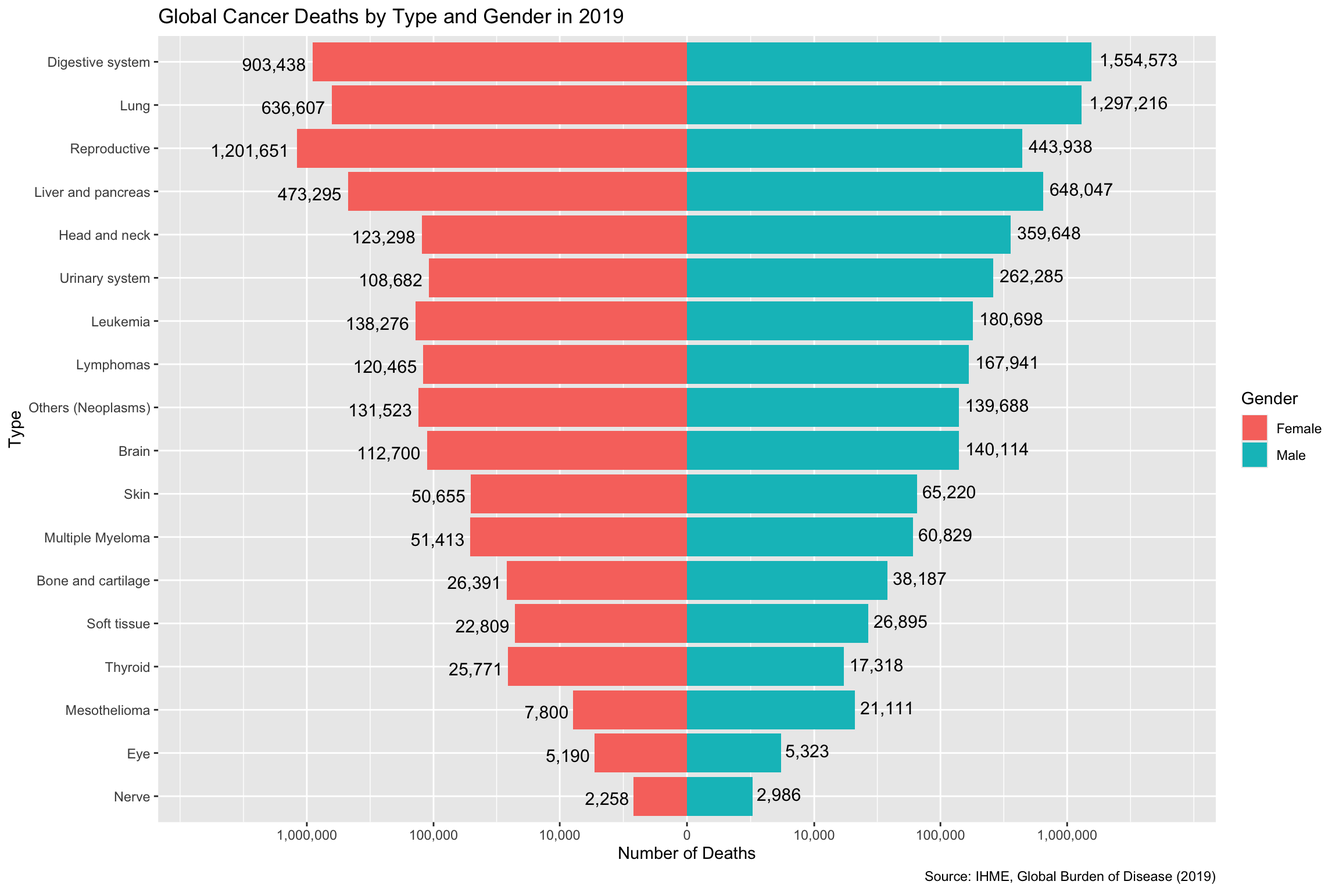
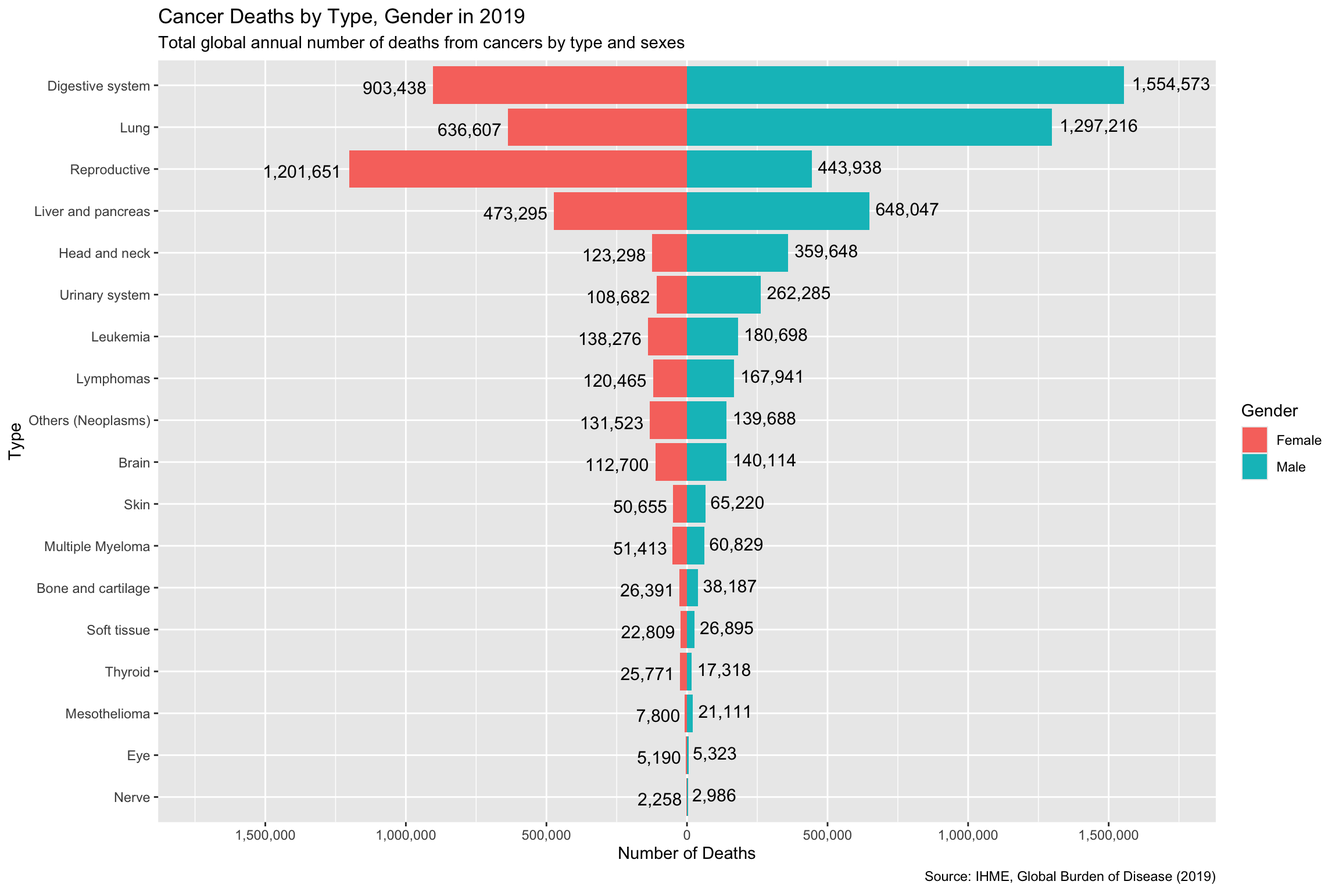
subtitle add

diff --git a/MainVisualization.html b/MainVisualization.html
@@ -147,31 +147,29 @@ dbl (10): measure_id, location_id, sex_id, age_id, cause_id, metric_id, year...
 <span id="cb7-3"><a href="#cb7-3" aria-hidden="true" tabindex="-1"></a>      <span class="fu">filter</span>(<span class="sc">!</span>cause_name <span class="sc">%in%</span> <span class="fu">c</span>(<span class="st">"Total cancers"</span>, <span class="st">"Total Cancers excluding Non-melanoma skin cancer"</span>))</span></code><button title="Copy to Clipboard" class="code-copy-button"><i class="bi"></i></button></pre></div>
 </div>
 <div class="cell" data-layout-align="center">
-<div class="sourceCode cell-code" id="cb8"><pre class="sourceCode r code-with-copy"><code class="sourceCode r"><span id="cb8-1"><a href="#cb8-1" aria-hidden="true" tabindex="-1"></a><span class="co"># </span><span class="al">TODO</span><span class="co">:  Find out about proper classifications of cancer to help support our groupings and change it if necessary</span></span>
-<span id="cb8-2"><a href="#cb8-2" aria-hidden="true" tabindex="-1"></a></span>
-<span id="cb8-3"><a href="#cb8-3" aria-hidden="true" tabindex="-1"></a><span class="co"># Define new cancer groups</span></span>
-<span id="cb8-4"><a href="#cb8-4" aria-hidden="true" tabindex="-1"></a>cancer_data_2019 <span class="ot">&lt;-</span> cancer_data_2019 <span class="sc">%&gt;%</span></span>
-<span id="cb8-5"><a href="#cb8-5" aria-hidden="true" tabindex="-1"></a>  <span class="fu">mutate</span>(<span class="at">cause_group =</span> <span class="fu">case_when</span>(</span>
-<span id="cb8-6"><a href="#cb8-6" aria-hidden="true" tabindex="-1"></a>    cause_name <span class="sc">%in%</span> <span class="fu">c</span>(<span class="st">"Soft tissue and other extraosseous sarcomas"</span>) <span class="sc">~</span> <span class="st">"Soft tissue"</span>,</span>
-<span id="cb8-7"><a href="#cb8-7" aria-hidden="true" tabindex="-1"></a>    cause_name <span class="sc">%in%</span> <span class="fu">c</span>(<span class="st">"Neuroblastoma and other peripheral nervous cell tumors"</span>) <span class="sc">~</span> <span class="st">"Nerve"</span>,</span>
-<span id="cb8-8"><a href="#cb8-8" aria-hidden="true" tabindex="-1"></a>    cause_name <span class="sc">%in%</span> <span class="fu">c</span>(<span class="st">"Breast cancer"</span>, <span class="st">"Cervical cancer"</span>, <span class="st">"Uterine cancer"</span>, <span class="st">"Prostate cancer"</span>, <span class="st">"Ovarian cancer"</span>, <span class="st">"Testicular cancer"</span>) <span class="sc">~</span> <span class="st">"Reproductive"</span>,</span>
-<span id="cb8-9"><a href="#cb8-9" aria-hidden="true" tabindex="-1"></a>    cause_name <span class="sc">%in%</span> <span class="fu">c</span>(<span class="st">"Colon and rectum cancer"</span>, <span class="st">"Stomach cancer"</span>, <span class="st">"Esophageal cancer"</span>) <span class="sc">~</span> <span class="st">"Digestive system"</span>,</span>
-<span id="cb8-10"><a href="#cb8-10" aria-hidden="true" tabindex="-1"></a>    cause_name <span class="sc">%in%</span> <span class="fu">c</span>(<span class="st">"Lip and oral cavity cancer"</span>, <span class="st">"Nasopharynx cancer"</span>, <span class="st">"Other pharynx cancer"</span>, <span class="st">"Larynx cancer"</span>) <span class="sc">~</span> <span class="st">"Head and neck"</span>,</span>
-<span id="cb8-11"><a href="#cb8-11" aria-hidden="true" tabindex="-1"></a>    cause_name <span class="sc">%in%</span> <span class="fu">c</span>(<span class="st">"Gallbladder and biliary tract cancer"</span>, <span class="st">"Liver cancer"</span>, <span class="st">"Pancreatic cancer"</span>) <span class="sc">~</span> <span class="st">"Liver and pancreas"</span>,</span>
-<span id="cb8-12"><a href="#cb8-12" aria-hidden="true" tabindex="-1"></a>    cause_name <span class="sc">%in%</span> <span class="fu">c</span>(<span class="st">"Malignant skin melanoma"</span>, <span class="st">"Non-melanoma skin cancer"</span>) <span class="sc">~</span> <span class="st">"Skin"</span>,</span>
-<span id="cb8-13"><a href="#cb8-13" aria-hidden="true" tabindex="-1"></a>    cause_name <span class="sc">%in%</span> <span class="fu">c</span>(<span class="st">"Kidney cancer"</span>, <span class="st">"Bladder cancer"</span>) <span class="sc">~</span> <span class="st">"Urinary system"</span>,</span>
-<span id="cb8-14"><a href="#cb8-14" aria-hidden="true" tabindex="-1"></a>    cause_name <span class="sc">%in%</span> <span class="fu">c</span>(<span class="st">"Brain and central nervous system cancer"</span>) <span class="sc">~</span> <span class="st">"Brain"</span>,</span>
-<span id="cb8-15"><a href="#cb8-15" aria-hidden="true" tabindex="-1"></a>    cause_name <span class="sc">%in%</span> <span class="fu">c</span>(<span class="st">"Thyroid cancer"</span>) <span class="sc">~</span> <span class="st">"Thyroid"</span>,</span>
-<span id="cb8-16"><a href="#cb8-16" aria-hidden="true" tabindex="-1"></a>    cause_name <span class="sc">%in%</span> <span class="fu">c</span>(<span class="st">"Mesothelioma"</span>) <span class="sc">~</span> <span class="st">"Mesothelioma"</span>,</span>
-<span id="cb8-17"><a href="#cb8-17" aria-hidden="true" tabindex="-1"></a>    cause_name <span class="sc">%in%</span> <span class="fu">c</span>(<span class="st">"Hodgkin lymphoma"</span>, <span class="st">"Non-Hodgkin lymphoma"</span>) <span class="sc">~</span> <span class="st">"Lymphomas"</span>,</span>
-<span id="cb8-18"><a href="#cb8-18" aria-hidden="true" tabindex="-1"></a>    cause_name <span class="sc">%in%</span> <span class="fu">c</span>(<span class="st">"Multiple myeloma"</span>) <span class="sc">~</span> <span class="st">"Multiple Myeloma"</span>,</span>
-<span id="cb8-19"><a href="#cb8-19" aria-hidden="true" tabindex="-1"></a>    cause_name <span class="sc">%in%</span> <span class="fu">c</span>(<span class="st">"Leukemia"</span>) <span class="sc">~</span> <span class="st">"Leukemia"</span>,</span>
-<span id="cb8-20"><a href="#cb8-20" aria-hidden="true" tabindex="-1"></a>    cause_name <span class="sc">%in%</span> <span class="fu">c</span>(<span class="st">"Tracheal, bronchus, and lung cancer"</span>) <span class="sc">~</span> <span class="st">"Lung"</span>,</span>
-<span id="cb8-21"><a href="#cb8-21" aria-hidden="true" tabindex="-1"></a>    cause_name <span class="sc">%in%</span> <span class="fu">c</span>(<span class="st">"Other malignant neoplasms"</span>, <span class="st">"Other neoplasms"</span>) <span class="sc">~</span> <span class="st">"Others (Neoplasms)"</span>,</span>
-<span id="cb8-22"><a href="#cb8-22" aria-hidden="true" tabindex="-1"></a>    cause_name <span class="sc">%in%</span> <span class="fu">c</span>(<span class="st">"Malignant neoplasm of bone and articular cartilage"</span>) <span class="sc">~</span> <span class="st">"Bone and cartilage"</span>,</span>
-<span id="cb8-23"><a href="#cb8-23" aria-hidden="true" tabindex="-1"></a>    cause_name <span class="sc">%in%</span> <span class="fu">c</span>(<span class="st">"Eye cancer"</span>) <span class="sc">~</span> <span class="st">"Eye"</span>,</span>
-<span id="cb8-24"><a href="#cb8-24" aria-hidden="true" tabindex="-1"></a>    <span class="cn">TRUE</span> <span class="sc">~</span> cause_name</span>
-<span id="cb8-25"><a href="#cb8-25" aria-hidden="true" tabindex="-1"></a>  ))</span></code><button title="Copy to Clipboard" class="code-copy-button"><i class="bi"></i></button></pre></div>
+<div class="sourceCode cell-code" id="cb8"><pre class="sourceCode r code-with-copy"><code class="sourceCode r"><span id="cb8-1"><a href="#cb8-1" aria-hidden="true" tabindex="-1"></a><span class="co"># Define new cancer groups</span></span>
+<span id="cb8-2"><a href="#cb8-2" aria-hidden="true" tabindex="-1"></a>cancer_data_2019 <span class="ot">&lt;-</span> cancer_data_2019 <span class="sc">%&gt;%</span></span>
+<span id="cb8-3"><a href="#cb8-3" aria-hidden="true" tabindex="-1"></a>  <span class="fu">mutate</span>(<span class="at">cause_group =</span> <span class="fu">case_when</span>(</span>
+<span id="cb8-4"><a href="#cb8-4" aria-hidden="true" tabindex="-1"></a>    cause_name <span class="sc">%in%</span> <span class="fu">c</span>(<span class="st">"Soft tissue and other extraosseous sarcomas"</span>) <span class="sc">~</span> <span class="st">"Soft tissue"</span>,</span>
+<span id="cb8-5"><a href="#cb8-5" aria-hidden="true" tabindex="-1"></a>    cause_name <span class="sc">%in%</span> <span class="fu">c</span>(<span class="st">"Neuroblastoma and other peripheral nervous cell tumors"</span>) <span class="sc">~</span> <span class="st">"Nerve"</span>,</span>
+<span id="cb8-6"><a href="#cb8-6" aria-hidden="true" tabindex="-1"></a>    cause_name <span class="sc">%in%</span> <span class="fu">c</span>(<span class="st">"Breast cancer"</span>, <span class="st">"Cervical cancer"</span>, <span class="st">"Uterine cancer"</span>, <span class="st">"Prostate cancer"</span>, <span class="st">"Ovarian cancer"</span>, <span class="st">"Testicular cancer"</span>) <span class="sc">~</span> <span class="st">"Reproductive"</span>,</span>
+<span id="cb8-7"><a href="#cb8-7" aria-hidden="true" tabindex="-1"></a>    cause_name <span class="sc">%in%</span> <span class="fu">c</span>(<span class="st">"Colon and rectum cancer"</span>, <span class="st">"Stomach cancer"</span>, <span class="st">"Esophageal cancer"</span>) <span class="sc">~</span> <span class="st">"Digestive system"</span>,</span>
+<span id="cb8-8"><a href="#cb8-8" aria-hidden="true" tabindex="-1"></a>    cause_name <span class="sc">%in%</span> <span class="fu">c</span>(<span class="st">"Lip and oral cavity cancer"</span>, <span class="st">"Nasopharynx cancer"</span>, <span class="st">"Other pharynx cancer"</span>, <span class="st">"Larynx cancer"</span>) <span class="sc">~</span> <span class="st">"Head and neck"</span>,</span>
+<span id="cb8-9"><a href="#cb8-9" aria-hidden="true" tabindex="-1"></a>    cause_name <span class="sc">%in%</span> <span class="fu">c</span>(<span class="st">"Gallbladder and biliary tract cancer"</span>, <span class="st">"Liver cancer"</span>, <span class="st">"Pancreatic cancer"</span>) <span class="sc">~</span> <span class="st">"Liver and pancreas"</span>,</span>
+<span id="cb8-10"><a href="#cb8-10" aria-hidden="true" tabindex="-1"></a>    cause_name <span class="sc">%in%</span> <span class="fu">c</span>(<span class="st">"Malignant skin melanoma"</span>, <span class="st">"Non-melanoma skin cancer"</span>) <span class="sc">~</span> <span class="st">"Skin"</span>,</span>
+<span id="cb8-11"><a href="#cb8-11" aria-hidden="true" tabindex="-1"></a>    cause_name <span class="sc">%in%</span> <span class="fu">c</span>(<span class="st">"Kidney cancer"</span>, <span class="st">"Bladder cancer"</span>) <span class="sc">~</span> <span class="st">"Urinary system"</span>,</span>
+<span id="cb8-12"><a href="#cb8-12" aria-hidden="true" tabindex="-1"></a>    cause_name <span class="sc">%in%</span> <span class="fu">c</span>(<span class="st">"Brain and central nervous system cancer"</span>) <span class="sc">~</span> <span class="st">"Brain"</span>,</span>
+<span id="cb8-13"><a href="#cb8-13" aria-hidden="true" tabindex="-1"></a>    cause_name <span class="sc">%in%</span> <span class="fu">c</span>(<span class="st">"Thyroid cancer"</span>) <span class="sc">~</span> <span class="st">"Thyroid"</span>,</span>
+<span id="cb8-14"><a href="#cb8-14" aria-hidden="true" tabindex="-1"></a>    cause_name <span class="sc">%in%</span> <span class="fu">c</span>(<span class="st">"Mesothelioma"</span>) <span class="sc">~</span> <span class="st">"Mesothelioma"</span>,</span>
+<span id="cb8-15"><a href="#cb8-15" aria-hidden="true" tabindex="-1"></a>    cause_name <span class="sc">%in%</span> <span class="fu">c</span>(<span class="st">"Hodgkin lymphoma"</span>, <span class="st">"Non-Hodgkin lymphoma"</span>) <span class="sc">~</span> <span class="st">"Lymphomas"</span>,</span>
+<span id="cb8-16"><a href="#cb8-16" aria-hidden="true" tabindex="-1"></a>    cause_name <span class="sc">%in%</span> <span class="fu">c</span>(<span class="st">"Multiple myeloma"</span>) <span class="sc">~</span> <span class="st">"Multiple Myeloma"</span>,</span>
+<span id="cb8-17"><a href="#cb8-17" aria-hidden="true" tabindex="-1"></a>    cause_name <span class="sc">%in%</span> <span class="fu">c</span>(<span class="st">"Leukemia"</span>) <span class="sc">~</span> <span class="st">"Leukemia"</span>,</span>
+<span id="cb8-18"><a href="#cb8-18" aria-hidden="true" tabindex="-1"></a>    cause_name <span class="sc">%in%</span> <span class="fu">c</span>(<span class="st">"Tracheal, bronchus, and lung cancer"</span>) <span class="sc">~</span> <span class="st">"Lung"</span>,</span>
+<span id="cb8-19"><a href="#cb8-19" aria-hidden="true" tabindex="-1"></a>    cause_name <span class="sc">%in%</span> <span class="fu">c</span>(<span class="st">"Other malignant neoplasms"</span>, <span class="st">"Other neoplasms"</span>) <span class="sc">~</span> <span class="st">"Others (Neoplasms)"</span>,</span>
+<span id="cb8-20"><a href="#cb8-20" aria-hidden="true" tabindex="-1"></a>    cause_name <span class="sc">%in%</span> <span class="fu">c</span>(<span class="st">"Malignant neoplasm of bone and articular cartilage"</span>) <span class="sc">~</span> <span class="st">"Bone and cartilage"</span>,</span>
+<span id="cb8-21"><a href="#cb8-21" aria-hidden="true" tabindex="-1"></a>    cause_name <span class="sc">%in%</span> <span class="fu">c</span>(<span class="st">"Eye cancer"</span>) <span class="sc">~</span> <span class="st">"Eye"</span>,</span>
+<span id="cb8-22"><a href="#cb8-22" aria-hidden="true" tabindex="-1"></a>    <span class="cn">TRUE</span> <span class="sc">~</span> cause_name</span>
+<span id="cb8-23"><a href="#cb8-23" aria-hidden="true" tabindex="-1"></a>  ))</span></code><button title="Copy to Clipboard" class="code-copy-button"><i class="bi"></i></button></pre></div>
 </div>
 <div class="cell" data-layout-align="center">
 <div class="sourceCode cell-code" id="cb9"><pre class="sourceCode r code-with-copy"><code class="sourceCode r"><span id="cb9-1"><a href="#cb9-1" aria-hidden="true" tabindex="-1"></a><span class="co"># Group by new cancer groups and sum the values</span></span>
@@ -217,14 +215,15 @@ dbl (10): measure_id, location_id, sex_id, age_id, cause_id, metric_id, year...
 <span id="cb12-2"><a href="#cb12-2" aria-hidden="true" tabindex="-1"></a></span>
 <span id="cb12-3"><a href="#cb12-3" aria-hidden="true" tabindex="-1"></a>p <span class="ot">&lt;-</span> p <span class="sc">+</span></span>
 <span id="cb12-4"><a href="#cb12-4" aria-hidden="true" tabindex="-1"></a>  <span class="fu">labs</span>(</span>
-<span id="cb12-5"><a href="#cb12-5" aria-hidden="true" tabindex="-1"></a>    <span class="at">title =</span> <span class="st">"Global Cancer Deaths by Type and Gender in 2019"</span>,</span>
-<span id="cb12-6"><a href="#cb12-6" aria-hidden="true" tabindex="-1"></a>    <span class="at">x =</span> <span class="st">"Type"</span>,</span>
-<span id="cb12-7"><a href="#cb12-7" aria-hidden="true" tabindex="-1"></a>    <span class="at">y =</span> <span class="st">"Number of Deaths"</span>,</span>
-<span id="cb12-8"><a href="#cb12-8" aria-hidden="true" tabindex="-1"></a>    <span class="at">fill =</span> <span class="st">"Gender"</span>,</span>
-<span id="cb12-9"><a href="#cb12-9" aria-hidden="true" tabindex="-1"></a>    <span class="at">caption =</span> <span class="st">"Source: IHME, Global Burden of Disease (2019)"</span></span>
-<span id="cb12-10"><a href="#cb12-10" aria-hidden="true" tabindex="-1"></a>  )</span>
-<span id="cb12-11"><a href="#cb12-11" aria-hidden="true" tabindex="-1"></a></span>
-<span id="cb12-12"><a href="#cb12-12" aria-hidden="true" tabindex="-1"></a>p</span></code><button title="Copy to Clipboard" class="code-copy-button"><i class="bi"></i></button></pre></div>
+<span id="cb12-5"><a href="#cb12-5" aria-hidden="true" tabindex="-1"></a>    <span class="at">title =</span> <span class="st">"Cancer Deaths by Type, Gender in 2019"</span>,</span>
+<span id="cb12-6"><a href="#cb12-6" aria-hidden="true" tabindex="-1"></a>    <span class="at">subtitle =</span> <span class="st">"Total global annual number of deaths from cancers by type and sexes"</span>,</span>
+<span id="cb12-7"><a href="#cb12-7" aria-hidden="true" tabindex="-1"></a>    <span class="at">x =</span> <span class="st">"Type"</span>,</span>
+<span id="cb12-8"><a href="#cb12-8" aria-hidden="true" tabindex="-1"></a>    <span class="at">y =</span> <span class="st">"Number of Deaths"</span>,</span>
+<span id="cb12-9"><a href="#cb12-9" aria-hidden="true" tabindex="-1"></a>    <span class="at">fill =</span> <span class="st">"Gender"</span>,</span>
+<span id="cb12-10"><a href="#cb12-10" aria-hidden="true" tabindex="-1"></a>    <span class="at">caption =</span> <span class="st">"Source: IHME, Global Burden of Disease (2019)"</span></span>
+<span id="cb12-11"><a href="#cb12-11" aria-hidden="true" tabindex="-1"></a>  )</span>
+<span id="cb12-12"><a href="#cb12-12" aria-hidden="true" tabindex="-1"></a></span>
+<span id="cb12-13"><a href="#cb12-13" aria-hidden="true" tabindex="-1"></a>p</span></code><button title="Copy to Clipboard" class="code-copy-button"><i class="bi"></i></button></pre></div>
 <div class="cell-output-display">
 <div class="quarto-figure quarto-figure-center">
 <figure class="figure">
@@ -238,22 +237,22 @@ dbl (10): measure_id, location_id, sex_id, age_id, cause_id, metric_id, year...
 <span id="cb13-2"><a href="#cb13-2" aria-hidden="true" tabindex="-1"></a></span>
 <span id="cb13-3"><a href="#cb13-3" aria-hidden="true" tabindex="-1"></a>max_value <span class="ot">&lt;-</span> <span class="fu">max</span>(<span class="fu">abs</span>(cancer_data_long_base<span class="sc">$</span>Male), <span class="fu">abs</span>(cancer_data_long_base<span class="sc">$</span>Female))</span>
 <span id="cb13-4"><a href="#cb13-4" aria-hidden="true" tabindex="-1"></a></span>
-<span id="cb13-5"><a href="#cb13-5" aria-hidden="true" tabindex="-1"></a>limit <span class="ot">&lt;-</span> max_value <span class="sc">*</span> <span class="dv">4</span></span>
+<span id="cb13-5"><a href="#cb13-5" aria-hidden="true" tabindex="-1"></a>limit <span class="ot">&lt;-</span> max_value <span class="sc">*</span> <span class="fl">1.1</span></span>
 <span id="cb13-6"><a href="#cb13-6" aria-hidden="true" tabindex="-1"></a></span>
-<span id="cb13-7"><a href="#cb13-7" aria-hidden="true" tabindex="-1"></a><span class="co">#p &lt;- p +</span></span>
-<span id="cb13-8"><a href="#cb13-8" aria-hidden="true" tabindex="-1"></a><span class="co">#  scale_y_continuous(</span></span>
-<span id="cb13-9"><a href="#cb13-9" aria-hidden="true" tabindex="-1"></a><span class="co">#    limits = c(-limit, limit),</span></span>
-<span id="cb13-10"><a href="#cb13-10" aria-hidden="true" tabindex="-1"></a><span class="co">#    breaks = seq(-1.5e6, 1.5e6, by = 5e5),</span></span>
-<span id="cb13-11"><a href="#cb13-11" aria-hidden="true" tabindex="-1"></a><span class="co">#    labels = function(x) scales::comma(abs(x)) </span></span>
-<span id="cb13-12"><a href="#cb13-12" aria-hidden="true" tabindex="-1"></a><span class="co">#  )</span></span>
+<span id="cb13-7"><a href="#cb13-7" aria-hidden="true" tabindex="-1"></a>p <span class="ot">&lt;-</span> p <span class="sc">+</span></span>
+<span id="cb13-8"><a href="#cb13-8" aria-hidden="true" tabindex="-1"></a>  <span class="fu">scale_y_continuous</span>(</span>
+<span id="cb13-9"><a href="#cb13-9" aria-hidden="true" tabindex="-1"></a>    <span class="at">limits =</span> <span class="fu">c</span>(<span class="sc">-</span>limit, limit),</span>
+<span id="cb13-10"><a href="#cb13-10" aria-hidden="true" tabindex="-1"></a>    <span class="at">breaks =</span> <span class="fu">seq</span>(<span class="sc">-</span><span class="fl">1.5e6</span>, <span class="fl">1.5e6</span>, <span class="at">by =</span> <span class="fl">5e5</span>),</span>
+<span id="cb13-11"><a href="#cb13-11" aria-hidden="true" tabindex="-1"></a>    <span class="at">labels =</span> <span class="cf">function</span>(x) scales<span class="sc">::</span><span class="fu">comma</span>(<span class="fu">abs</span>(x)) </span>
+<span id="cb13-12"><a href="#cb13-12" aria-hidden="true" tabindex="-1"></a>  )</span>
 <span id="cb13-13"><a href="#cb13-13" aria-hidden="true" tabindex="-1"></a></span>
-<span id="cb13-14"><a href="#cb13-14" aria-hidden="true" tabindex="-1"></a>p <span class="ot">&lt;-</span> p <span class="sc">+</span></span>
-<span id="cb13-15"><a href="#cb13-15" aria-hidden="true" tabindex="-1"></a>  <span class="fu">scale_y_continuous</span>(</span>
-<span id="cb13-16"><a href="#cb13-16" aria-hidden="true" tabindex="-1"></a>    <span class="at">limits =</span> <span class="fu">c</span>(<span class="sc">-</span>limit, limit),</span>
-<span id="cb13-17"><a href="#cb13-17" aria-hidden="true" tabindex="-1"></a>    <span class="at">trans =</span> <span class="fu">pseudo_log_trans</span>(<span class="at">base =</span> <span class="dv">10</span>, <span class="at">sigma =</span> <span class="fl">1e3</span>),  <span class="co"># Adjust sigma for more gradual scaling</span></span>
-<span id="cb13-18"><a href="#cb13-18" aria-hidden="true" tabindex="-1"></a>    <span class="at">breaks =</span> <span class="fu">c</span>(<span class="sc">-</span><span class="dv">10</span><span class="sc">^</span><span class="dv">6</span>, <span class="sc">-</span><span class="dv">10</span><span class="sc">^</span><span class="dv">5</span>, <span class="sc">-</span><span class="dv">10</span><span class="sc">^</span><span class="dv">4</span>, <span class="dv">0</span>, <span class="dv">10</span><span class="sc">^</span><span class="dv">4</span>, <span class="dv">10</span><span class="sc">^</span><span class="dv">5</span>, <span class="dv">10</span><span class="sc">^</span><span class="dv">6</span>),  <span class="co"># Logarithmic breaks</span></span>
-<span id="cb13-19"><a href="#cb13-19" aria-hidden="true" tabindex="-1"></a>    <span class="at">labels =</span> <span class="cf">function</span>(x) scales<span class="sc">::</span><span class="fu">comma</span>(<span class="fu">abs</span>(x)) </span>
-<span id="cb13-20"><a href="#cb13-20" aria-hidden="true" tabindex="-1"></a>  )</span>
+<span id="cb13-14"><a href="#cb13-14" aria-hidden="true" tabindex="-1"></a><span class="co">#p &lt;- p +</span></span>
+<span id="cb13-15"><a href="#cb13-15" aria-hidden="true" tabindex="-1"></a><span class="co">#  scale_y_continuous(</span></span>
+<span id="cb13-16"><a href="#cb13-16" aria-hidden="true" tabindex="-1"></a><span class="co">#    limits = c(-limit, limit),</span></span>
+<span id="cb13-17"><a href="#cb13-17" aria-hidden="true" tabindex="-1"></a><span class="co">#    trans = pseudo_log_trans(base = 10, sigma = 1e3),  # Adjust sigma for more gradual scaling</span></span>
+<span id="cb13-18"><a href="#cb13-18" aria-hidden="true" tabindex="-1"></a><span class="co">#    breaks = c(-10^6, -10^5, -10^4, 0, 10^4, 10^5, 10^6),  # Logarithmic breaks</span></span>
+<span id="cb13-19"><a href="#cb13-19" aria-hidden="true" tabindex="-1"></a><span class="co">#    labels = function(x) scales::comma(abs(x)) </span></span>
+<span id="cb13-20"><a href="#cb13-20" aria-hidden="true" tabindex="-1"></a><span class="co">#  )</span></span>
 <span id="cb13-21"><a href="#cb13-21" aria-hidden="true" tabindex="-1"></a></span>
 <span id="cb13-22"><a href="#cb13-22" aria-hidden="true" tabindex="-1"></a>p</span></code><button title="Copy to Clipboard" class="code-copy-button"><i class="bi"></i></button></pre></div>
 <div class="cell-output-display">
@@ -271,13 +270,13 @@ dbl (10): measure_id, location_id, sex_id, age_id, cause_id, metric_id, year...
 <span id="cb14-4"><a href="#cb14-4" aria-hidden="true" tabindex="-1"></a>  <span class="fu">geom_text</span>(</span>
 <span id="cb14-5"><a href="#cb14-5" aria-hidden="true" tabindex="-1"></a>    <span class="fu">aes</span>(<span class="at">y =</span> Female, <span class="at">label =</span> <span class="fu">formatC</span>(<span class="fu">abs</span>(Female), <span class="at">format =</span> <span class="st">"d"</span>, <span class="at">big.mark =</span> <span class="st">","</span>)),</span>
 <span id="cb14-6"><a href="#cb14-6" aria-hidden="true" tabindex="-1"></a>    <span class="at">position =</span> <span class="fu">position_nudge</span>(<span class="at">x =</span> <span class="sc">-</span><span class="fl">0.05</span>, <span class="at">y =</span> <span class="dv">0</span>),  <span class="co"># Nudge slightly to the left</span></span>
-<span id="cb14-7"><a href="#cb14-7" aria-hidden="true" tabindex="-1"></a>    <span class="at">hjust =</span> <span class="fl">1.1</span>,  <span class="co"># Right-align text</span></span>
+<span id="cb14-7"><a href="#cb14-7" aria-hidden="true" tabindex="-1"></a>    <span class="at">hjust =</span> <span class="fl">1.1</span>, </span>
 <span id="cb14-8"><a href="#cb14-8" aria-hidden="true" tabindex="-1"></a>    <span class="at">size =</span> <span class="dv">4</span></span>
 <span id="cb14-9"><a href="#cb14-9" aria-hidden="true" tabindex="-1"></a>  ) <span class="sc">+</span></span>
 <span id="cb14-10"><a href="#cb14-10" aria-hidden="true" tabindex="-1"></a>  <span class="fu">geom_text</span>(</span>
 <span id="cb14-11"><a href="#cb14-11" aria-hidden="true" tabindex="-1"></a>    <span class="fu">aes</span>(<span class="at">y =</span> Male, <span class="at">label =</span> <span class="fu">formatC</span>(Male, <span class="at">format =</span> <span class="st">"d"</span>, <span class="at">big.mark =</span> <span class="st">","</span>)),</span>
 <span id="cb14-12"><a href="#cb14-12" aria-hidden="true" tabindex="-1"></a>    <span class="at">position =</span> <span class="fu">position_nudge</span>(<span class="at">x =</span> <span class="fl">0.05</span>, <span class="at">y =</span> <span class="dv">0</span>),  <span class="co"># Nudge slightly to the right</span></span>
-<span id="cb14-13"><a href="#cb14-13" aria-hidden="true" tabindex="-1"></a>    <span class="at">hjust =</span> <span class="sc">-</span><span class="fl">0.1</span>,  <span class="co"># Left-align text</span></span>
+<span id="cb14-13"><a href="#cb14-13" aria-hidden="true" tabindex="-1"></a>    <span class="at">hjust =</span> <span class="sc">-</span><span class="fl">0.1</span>,</span>
 <span id="cb14-14"><a href="#cb14-14" aria-hidden="true" tabindex="-1"></a>    <span class="at">size =</span> <span class="dv">4</span></span>
 <span id="cb14-15"><a href="#cb14-15" aria-hidden="true" tabindex="-1"></a>  )</span>
 <span id="cb14-16"><a href="#cb14-16" aria-hidden="true" tabindex="-1"></a></span>
@@ -298,9 +297,9 @@ dbl (10): measure_id, location_id, sex_id, age_id, cause_id, metric_id, year...
 <span id="cb15-5"><a href="#cb15-5" aria-hidden="true" tabindex="-1"></a>  <span class="fu">theme</span>(</span>
 <span id="cb15-6"><a href="#cb15-6" aria-hidden="true" tabindex="-1"></a>    <span class="at">axis.text.y =</span> <span class="fu">element_text</span>(<span class="at">size =</span> <span class="dv">14</span>),</span>
 <span id="cb15-7"><a href="#cb15-7" aria-hidden="true" tabindex="-1"></a>    <span class="at">axis.text.x =</span> <span class="fu">element_text</span>(<span class="at">size =</span> <span class="dv">14</span>),</span>
-<span id="cb15-8"><a href="#cb15-8" aria-hidden="true" tabindex="-1"></a>    <span class="at">axis.title.y =</span> <span class="fu">element_text</span>(<span class="at">size =</span> <span class="dv">14</span>),</span>
-<span id="cb15-9"><a href="#cb15-9" aria-hidden="true" tabindex="-1"></a>    <span class="at">axis.title.x =</span> <span class="fu">element_text</span>(<span class="at">size =</span> <span class="dv">14</span>),</span>
-<span id="cb15-10"><a href="#cb15-10" aria-hidden="true" tabindex="-1"></a>    <span class="at">plot.title =</span> <span class="fu">element_text</span>(<span class="at">size =</span> <span class="dv">20</span>, <span class="at">face =</span> <span class="st">"bold"</span>, <span class="at">hjust =</span> <span class="fl">0.5</span>),</span>
+<span id="cb15-8"><a href="#cb15-8" aria-hidden="true" tabindex="-1"></a>    <span class="at">axis.title.y =</span> <span class="fu">element_text</span>(<span class="at">size =</span> <span class="dv">16</span>),</span>
+<span id="cb15-9"><a href="#cb15-9" aria-hidden="true" tabindex="-1"></a>    <span class="at">axis.title.x =</span> <span class="fu">element_text</span>(<span class="at">size =</span> <span class="dv">16</span>),</span>
+<span id="cb15-10"><a href="#cb15-10" aria-hidden="true" tabindex="-1"></a>    <span class="at">plot.title =</span> <span class="fu">element_text</span>(<span class="at">size =</span> <span class="dv">20</span>, <span class="at">face =</span> <span class="st">"bold"</span>),</span>
 <span id="cb15-11"><a href="#cb15-11" aria-hidden="true" tabindex="-1"></a>    <span class="at">legend.title =</span> <span class="fu">element_text</span>(<span class="at">size =</span> <span class="dv">14</span>, <span class="at">hjust =</span> <span class="fl">0.5</span>),</span>
 <span id="cb15-12"><a href="#cb15-12" aria-hidden="true" tabindex="-1"></a>    <span class="at">legend.text =</span> <span class="fu">element_text</span>(<span class="at">size =</span> <span class="dv">14</span>),</span>
 <span id="cb15-13"><a href="#cb15-13" aria-hidden="true" tabindex="-1"></a>    <span class="at">legend.position =</span> <span class="st">"top"</span>,</span>
@@ -308,8 +307,8 @@ dbl (10): measure_id, location_id, sex_id, age_id, cause_id, metric_id, year...
 <span id="cb15-15"><a href="#cb15-15" aria-hidden="true" tabindex="-1"></a>  ) <span class="sc">+</span></span>
 <span id="cb15-16"><a href="#cb15-16" aria-hidden="true" tabindex="-1"></a>  <span class="fu">theme</span>(</span>
 <span id="cb15-17"><a href="#cb15-17" aria-hidden="true" tabindex="-1"></a>    <span class="at">plot.margin =</span> <span class="fu">margin</span>(<span class="at">t =</span> <span class="dv">10</span>, <span class="at">r =</span> <span class="dv">10</span>, <span class="at">b =</span> <span class="dv">10</span>, <span class="at">l =</span> <span class="dv">10</span>),</span>
-<span id="cb15-18"><a href="#cb15-18" aria-hidden="true" tabindex="-1"></a>    <span class="at">axis.title.x =</span> <span class="fu">element_text</span>(<span class="at">margin =</span> <span class="fu">margin</span>(<span class="at">t =</span> <span class="dv">10</span>, <span class="at">r =</span> <span class="dv">10</span>, <span class="at">b =</span> <span class="dv">10</span>, <span class="at">l =</span> <span class="dv">10</span>)),</span>
-<span id="cb15-19"><a href="#cb15-19" aria-hidden="true" tabindex="-1"></a>    <span class="at">axis.title.y =</span> <span class="fu">element_text</span>(<span class="at">margin =</span> <span class="fu">margin</span>(<span class="at">t =</span> <span class="dv">10</span>, <span class="at">r =</span> <span class="dv">10</span>, <span class="at">b =</span> <span class="dv">10</span>, <span class="at">l =</span> <span class="dv">10</span>)),</span>
+<span id="cb15-18"><a href="#cb15-18" aria-hidden="true" tabindex="-1"></a>    <span class="at">axis.title.x =</span> <span class="fu">element_text</span>(<span class="at">margin =</span> <span class="fu">margin</span>(<span class="at">t =</span> <span class="dv">15</span>, <span class="at">r =</span> <span class="dv">10</span>, <span class="at">b =</span> <span class="dv">10</span>, <span class="at">l =</span> <span class="dv">10</span>)),</span>
+<span id="cb15-19"><a href="#cb15-19" aria-hidden="true" tabindex="-1"></a>    <span class="at">axis.title.y =</span> <span class="fu">element_text</span>(<span class="at">margin =</span> <span class="fu">margin</span>(<span class="at">t =</span> <span class="dv">10</span>, <span class="at">r =</span> <span class="dv">15</span>, <span class="at">b =</span> <span class="dv">10</span>, <span class="at">l =</span> <span class="dv">10</span>)),</span>
 <span id="cb15-20"><a href="#cb15-20" aria-hidden="true" tabindex="-1"></a>    <span class="at">plot.caption =</span> <span class="fu">element_text</span>(<span class="at">margin =</span> <span class="fu">margin</span>(<span class="at">t =</span> <span class="dv">10</span>, <span class="at">r =</span> <span class="dv">10</span>, <span class="at">b =</span> <span class="dv">10</span>, <span class="at">l =</span> <span class="dv">10</span>)),</span>
 <span id="cb15-21"><a href="#cb15-21" aria-hidden="true" tabindex="-1"></a>    <span class="at">legend.title =</span> <span class="fu">element_blank</span>()</span>
 <span id="cb15-22"><a href="#cb15-22" aria-hidden="true" tabindex="-1"></a>  )</span>
@@ -323,6 +322,9 @@ dbl (10): measure_id, location_id, sex_id, age_id, cause_id, metric_id, year...
 </div>
 </div>
 </div>
+</section>
+<section id="experimental-features-below" class="level2">
+<h2 class="anchored" data-anchor-id="experimental-features-below">Experimental features below</h2>
 <div class="cell" data-layout-align="center">
 <div class="sourceCode cell-code" id="cb16"><pre class="sourceCode r code-with-copy"><code class="sourceCode r"><span id="cb16-1"><a href="#cb16-1" aria-hidden="true" tabindex="-1"></a><span class="co"># # </span><span class="al">TODO</span><span class="co">: Create the sequential color scheme for both female and male (reference the picture sent in the group) DONE </span></span>
 <span id="cb16-2"><a href="#cb16-2" aria-hidden="true" tabindex="-1"></a></span>
